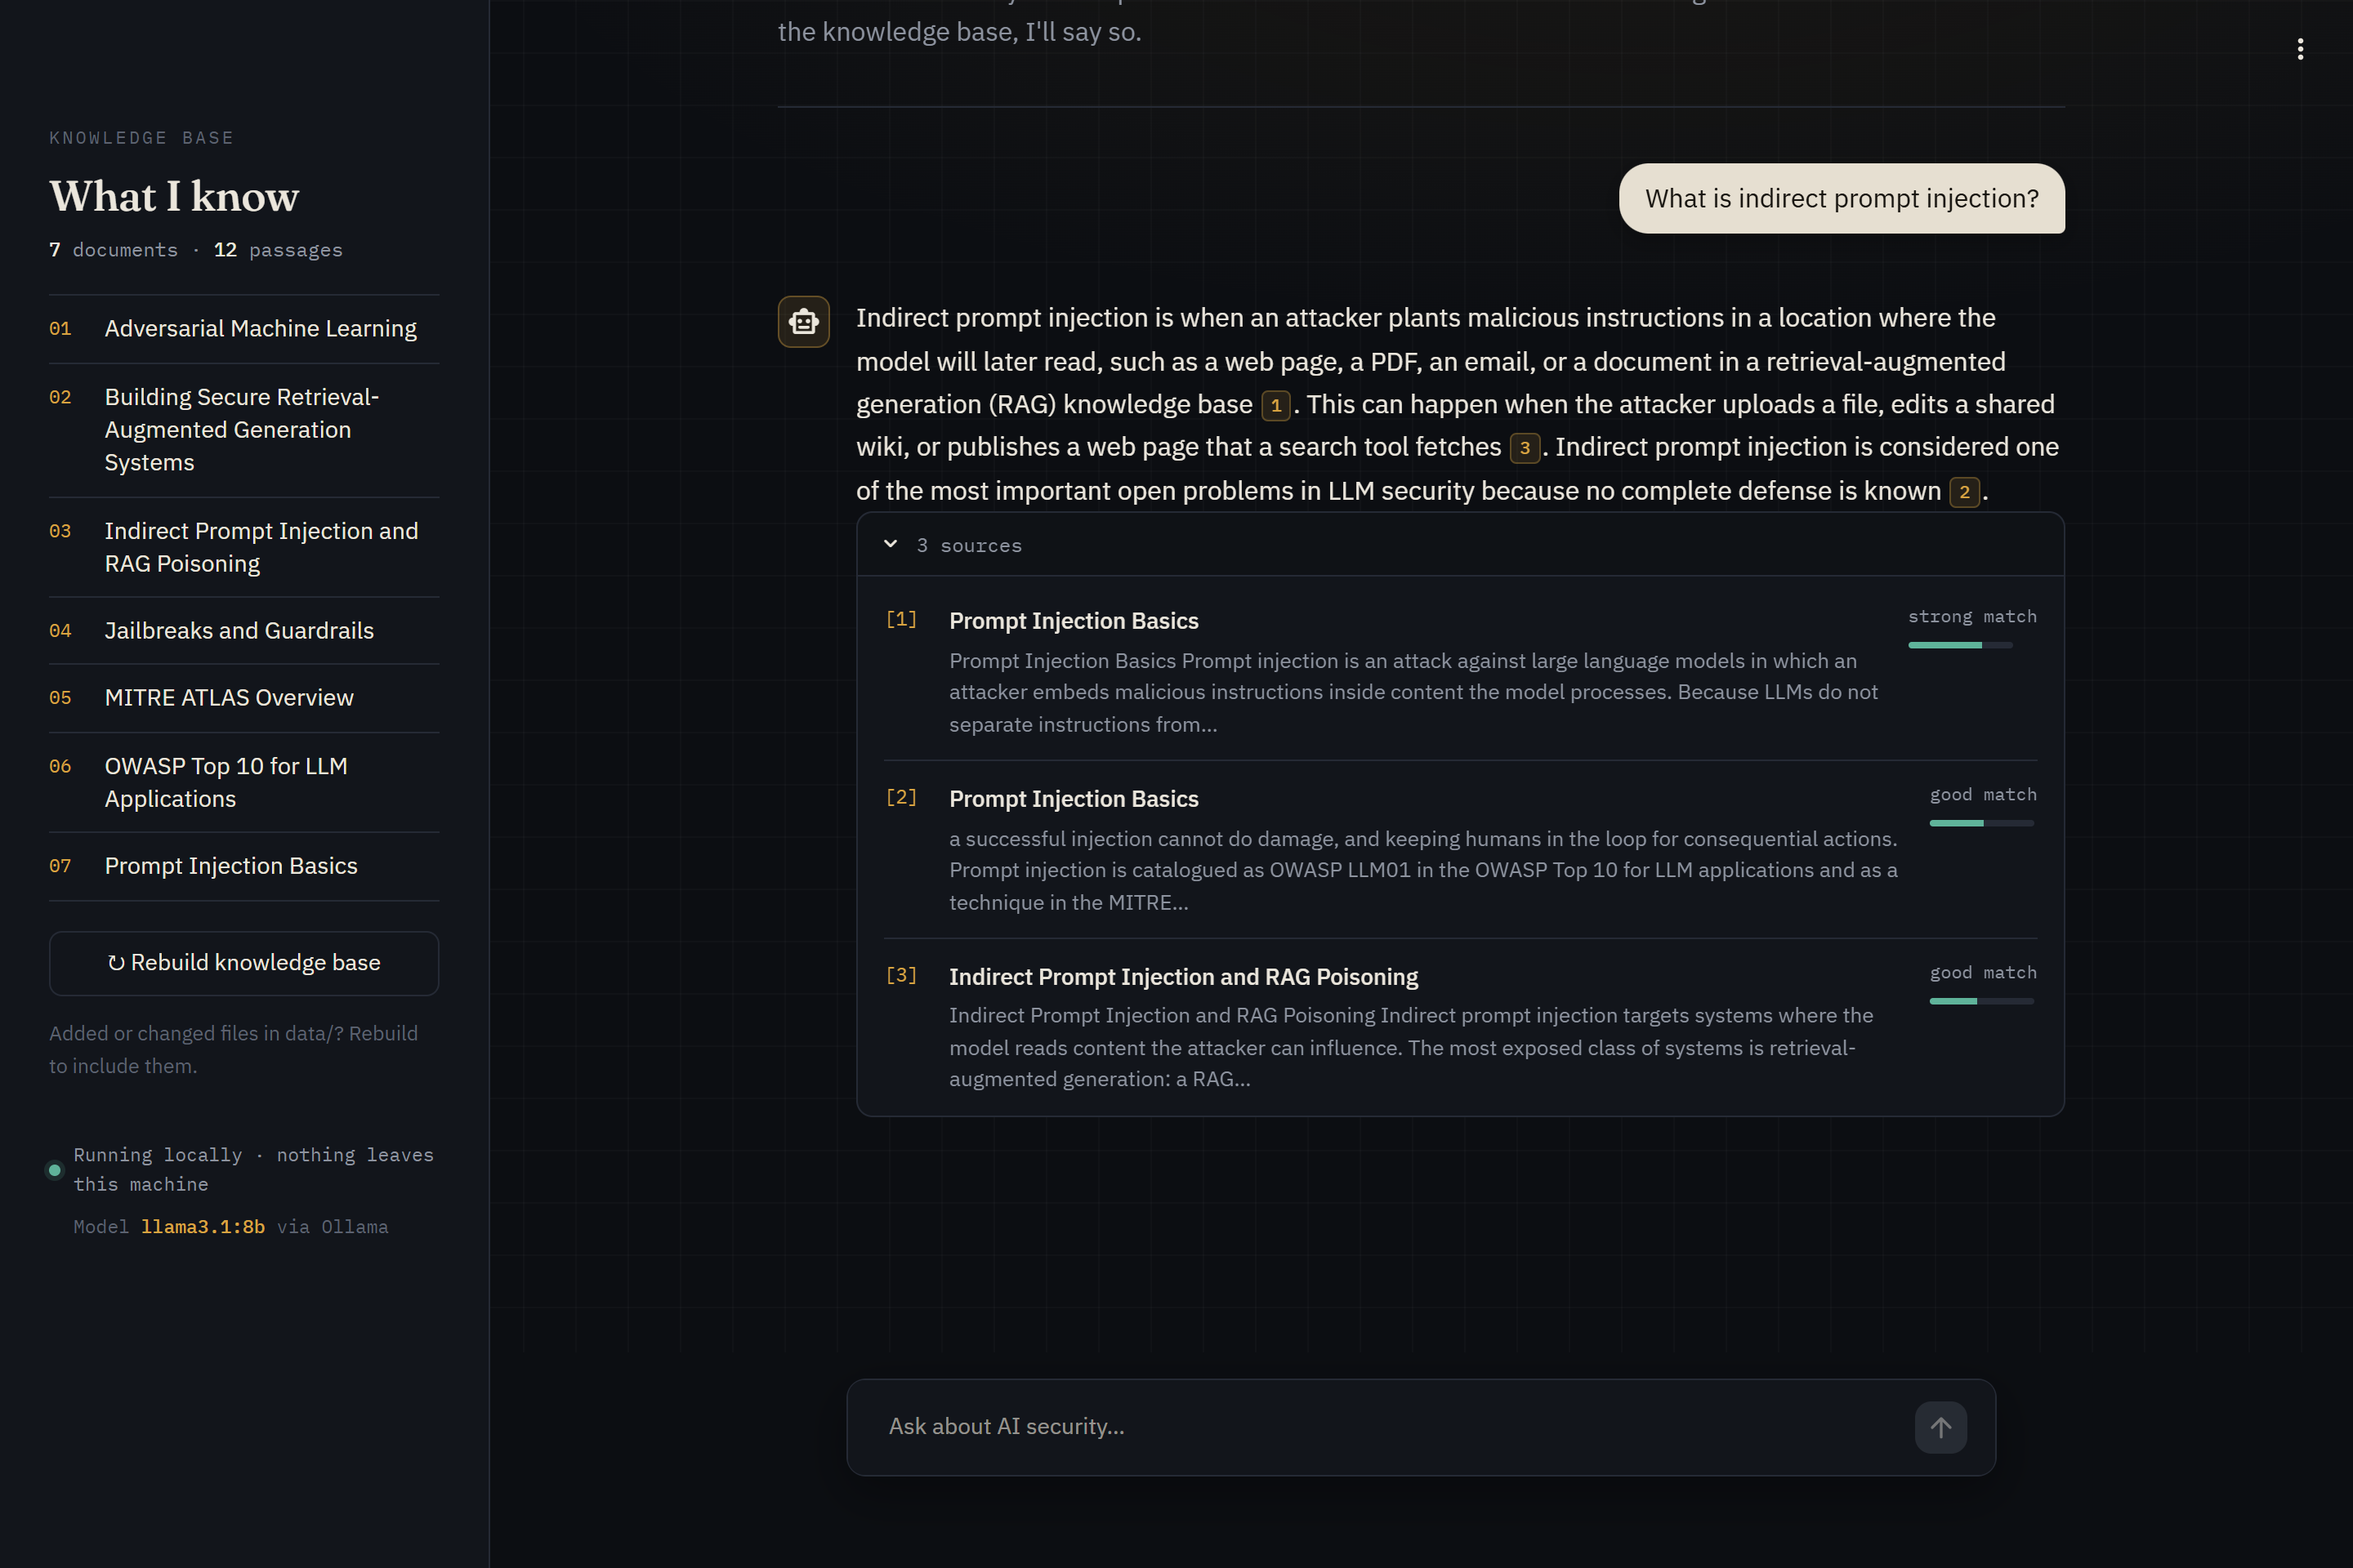
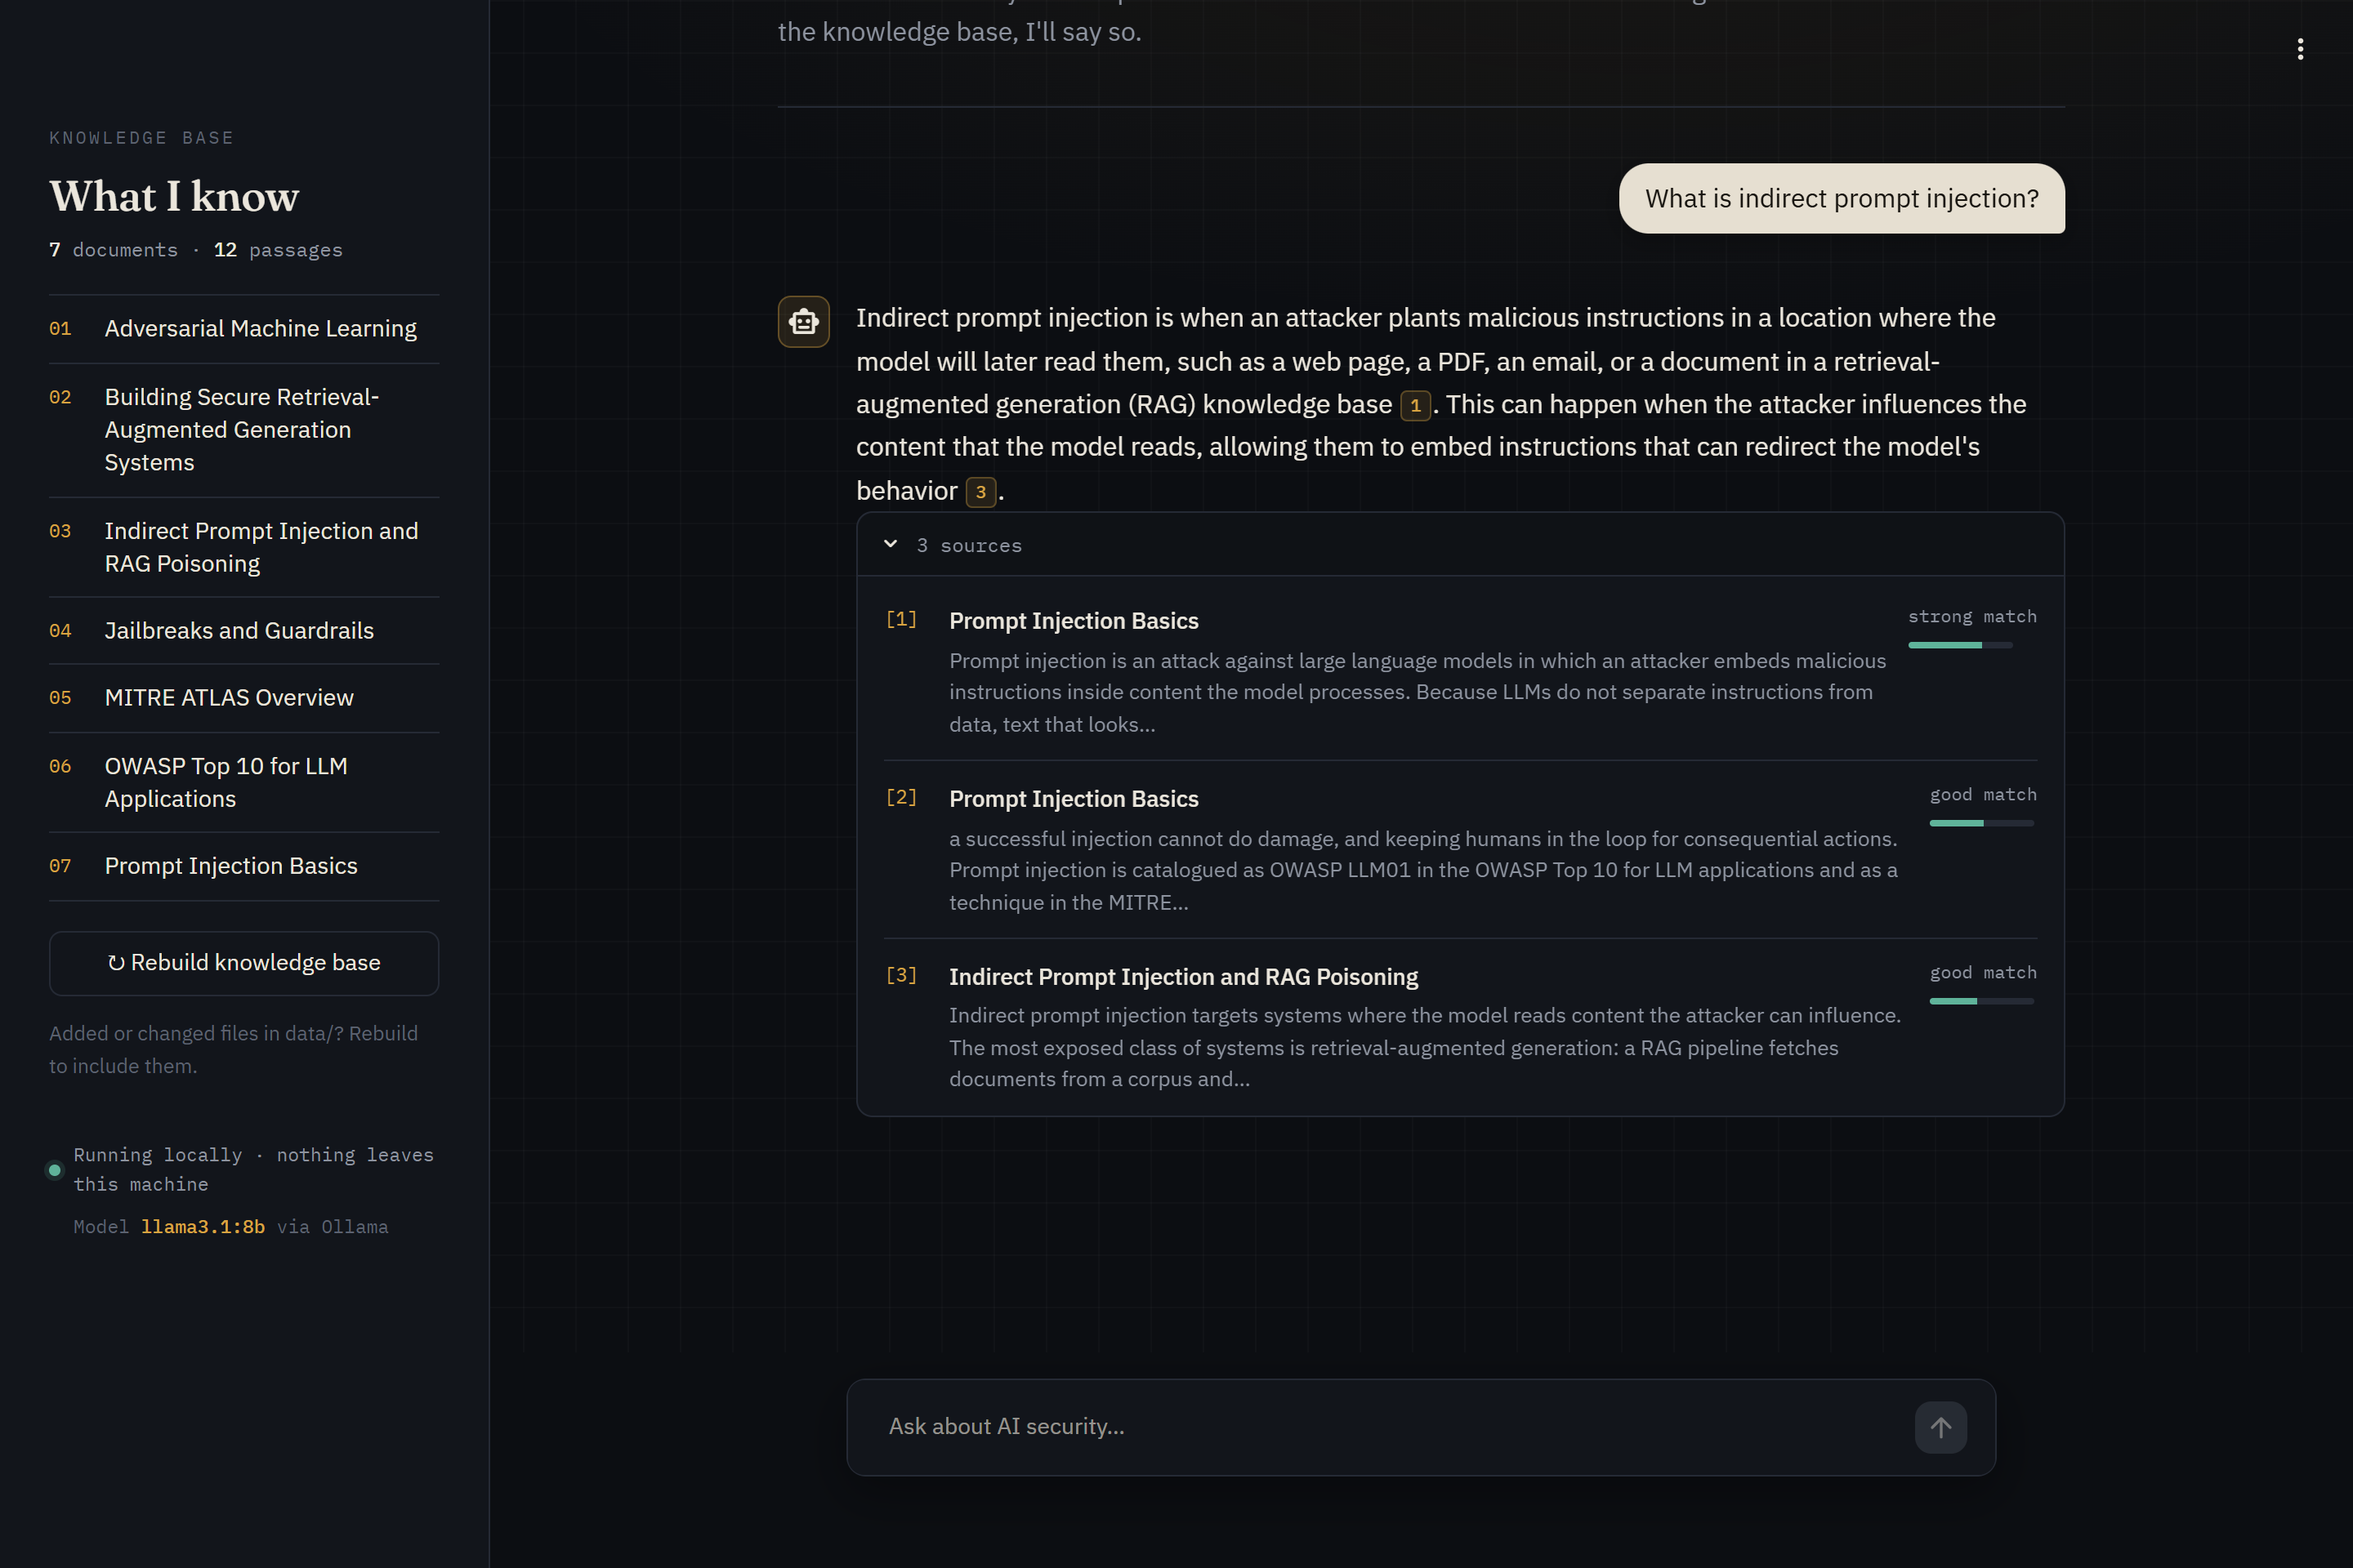
Fix example-question alignment and repeated titles in source excerpts
- "Try asking" buttons are left-aligned as in the approved mockup
- Source excerpts no longer start with the document title (shown above them)
- Refreshed README screenshots; README test count updated (47)

Changed region(s): [[0.375, 0.2188, 0.875, 0.3438], [0.4062, 0.625, 0.7812, 0.7188], [0.4062, 0.4062, 0.7812, 0.4688]]

diff --git a/ui/styles.css b/ui/styles.css
@@ -63,7 +63,8 @@
   border-color: rgba(217, 164, 65, 0.5); background: var(--panel-2);
   color: var(--text); transform: translateY(-1px);
 }
-.st-key-try-asking button p { font-size: 15px; line-height: 1.4; }
+.st-key-try-asking button > div { justify-content: flex-start; width: 100%; }
+.st-key-try-asking button p { font-size: 15px; line-height: 1.4; text-align: left; }
 
 /* ---------- User messages: right-aligned "paper note" bubbles ---------- */
 .user-row { display: flex; justify-content: flex-end; margin: 6px 0 22px; }

diff --git a/tests/test_ui.py b/tests/test_ui.py
@@ -156,6 +156,17 @@ class TestSafeRendering:
         out = sources_html([{"title": "<b>t</b>", "text": "<script>x</script>", "distance": 0.3}])
         assert "<script>" not in out and "<b>t</b>" not in out
 
+    def test_excerpt_drops_leading_title(self):
+        # Real chunks are single-line word windows (see ingest/chunker.py).
+        text = "# Prompt Injection Basics Prompt injection is an attack. ## Defenses Use layers."
+        out = sources_html([{"title": "Prompt Injection Basics", "text": text, "distance": 0.3}])
+        assert "Prompt Injection Basics Prompt injection" not in out
+        assert "Prompt injection is an attack. Defenses Use layers." in out
+
+    def test_excerpt_kept_when_no_title_prefix(self):
+        out = sources_html([{"title": "Prompt Injection Basics", "text": "a successful injection cannot do damage", "distance": 0.3}])
+        assert "a successful injection cannot do damage" in out
+
     def test_match_strength(self):
         assert match_strength(0.29)[0] == "strong match"
         assert match_strength(0.5)[0] == "good match"

diff --git a/ui/render.py b/ui/render.py
@@ -110,12 +110,22 @@ def match_strength(distance: float) -> tuple[str, int]:
     return label, width
 
 
+def _excerpt_text(text: str, title: str) -> str:
+    """Passage text for display. Chunks are single-line word windows, so the first
+    chunk of a file starts with "# <Title> ..."; drop the markdown markers and the
+    leading title (it's already shown above the excerpt)."""
+    excerpt = " ".join(text.replace("#", " ").split())
+    if title and excerpt.lower().startswith(title.lower()):
+        excerpt = excerpt[len(title):].lstrip()
+    return excerpt
+
+
 def sources_html(sources: list[dict]) -> str:
     """Numbered source rows. Each source: {"title", "text", "distance"}."""
     rows = []
     for i, src in enumerate(sources, start=1):
         label, width = match_strength(src["distance"])
-        excerpt = " ".join(src["text"].replace("#", " ").split())
+        excerpt = _excerpt_text(src["text"], src["title"])
         if len(excerpt) > EXCERPT_CHARS:
             excerpt = excerpt[:EXCERPT_CHARS].rsplit(" ", 1)[0] + "…"
         rows.append(

diff --git a/README.md b/README.md
@@ -28,7 +28,7 @@ Every tuning decision below came from a measurement on this project, not a defau
 | Run on the **integrated GPU** | Ollama logs showed it detected the integrated GPU and then skipped it by default | Generation 9 → 18 tokens/s; answers 8–12s |
 | **Stream** answers + **warm up** models at launch | Time to first words; first question after launch | First words in ~3–5s. First question after launch 14s+ → 5.4s |
 
-Current numbers: **96% retrieval hit-rate** (24/25), **45 unit tests**, answers start appearing within a few seconds on integrated graphics (no discrete GPU needed).
+Current numbers: **96% retrieval hit-rate** (24/25), **47 unit tests**, answers start appearing within a few seconds on integrated graphics (no discrete GPU needed).
 
 ## Security model
 
@@ -104,7 +104,7 @@ To use your own documents, drop `.md`, `.txt` or `.pdf` files into `data/` and c
 ## Tests and evals
 
 ```bash
-pytest -q                                  # 45 unit tests: chunking, cache, refusal, streaming, escaping, injection guards
+pytest -q                                  # 47 unit tests: chunking, cache, refusal, streaming, escaping, injection guards
 python evals/run_eval.py                   # retrieval hit-rate, fails below 80% (CI gate)
 python evals/injection_eval.py             # live red-team (needs Ollama)
 python evals/injection_eval.py --control   # same attacks against a naive undefended prompt
